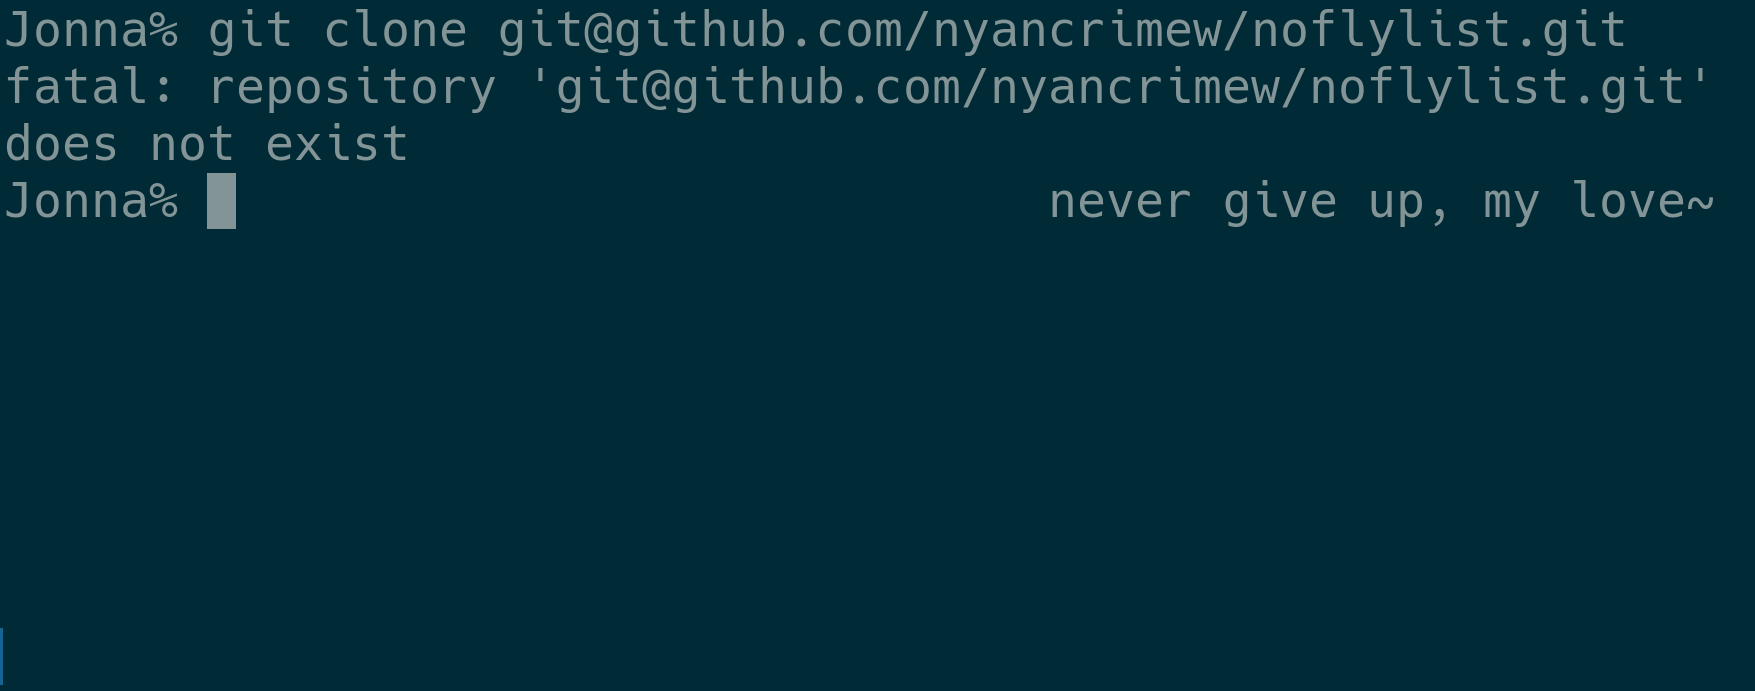
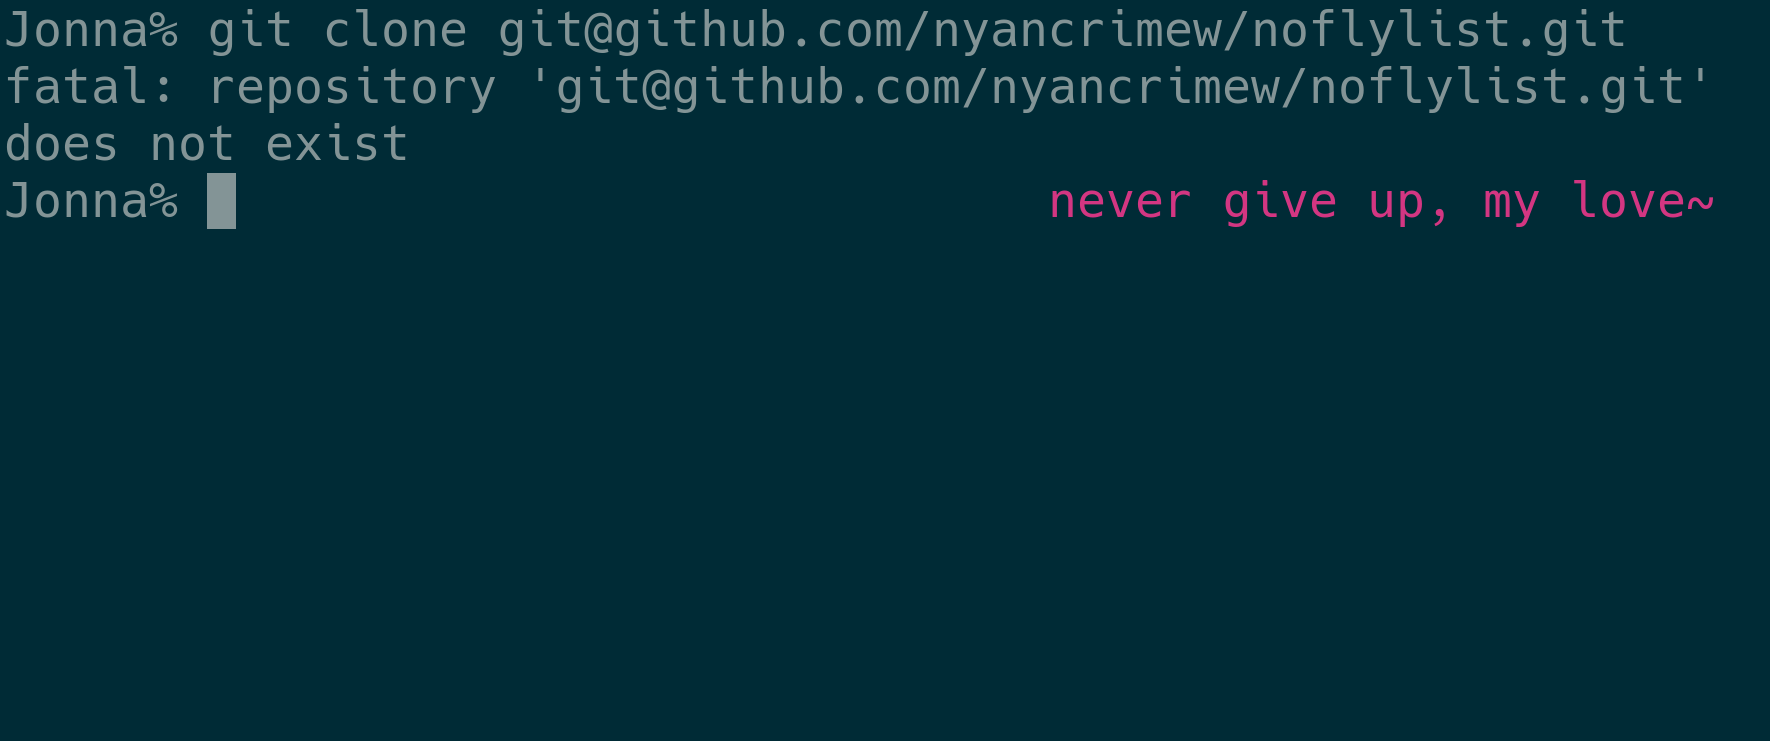
mommy supports prefixes now~ 💙
fixes #35~

Changed region(s): [[0.0, 0.0, 0.9846, 0.1823], [0.5846, 0.2431, 0.9846, 0.3343], [0.0, 0.1823, 0.2462, 0.3343]]

diff --git a/README.md b/README.md
@@ -75,6 +75,7 @@ make sure you do not put spaces around the `=`~
 | `MOMMY_CAREGIVER`              | what mommy calls herself                                                                                                                                                                                                                                                                                                                                    | yes   | `mommy`       |
 | `MOMMY_PRONOUNS`               | mommy's pronouns for herself. should be three words separated by spaces, as in `they them their` (subject, object, possessive)                                                                                                                                                                                                                              | yes   | `she her her` |
 | `MOMMY_SWEETIE`                | what mommy calls you                                                                                                                                                                                                                                                                                                                                        | yes   | `girl`        |
+| `MOMMY_PREFIX`                 | what mommy puts at the start of each sentence                                                                                                                                                                                                                                                                                                               | yes   | &lt;empty>    |
 | `MOMMY_SUFFIX`                 | what mommy puts at the end of each sentence                                                                                                                                                                                                                                                                                                                 | yes   | `~`           |
 | `MOMMY_CAPITALIZE`             | `0` to start sentences in lowercase, `1` for uppercase, anything else to change nothing                                                                                                                                                                                                                                                                     | no    | `0`           |
 | `MOMMY_COLOR`                  | color of mommy's text. you can use any [xterm color code](https://upload.wikimedia.org/wikipedia/commons/1/15/Xterm_256color_chart.svg), or write `lolcat` to use [lolcat](https://github.com/busyloop/lolcat) (install separately). specify multiple colors separated by `/` to randomly select one. set to empty string for your terminal's default color | yes   | `005`         |
@@ -196,7 +197,16 @@ to put mommy's output on the right side, add the following to `~/.zshrc`:
 set -o PROMPT_SUBST
 RPS1='$(mommy -1 -s $?)'
 ```
-unfortunately, the `RPS1` solution [does not work well with colours](https://github.com/FWDekker/mommy/issues/35)~
+unfortunately, the `RPS1` solution does not work well with `MOMMY_COLOR`.
+instead, you'll have to use a special zsh syntax for
+[xterm color codes](https://upload.wikimedia.org/wikipedia/commons/1/15/Xterm_256color_chart.svg) by adding the
+following to your config:
+```shell
+MOMMY_COLOR=""
+MOMMY_PREFIX="%F{005}/%F{006}"
+MOMMY_SUFFIX="~%f"
+```
+this code randomly changes the output between magenta and cyan~
 
 <img width="450px" src=".github/img/sample2.png" alt="mommy integrated with the zsh shell" />
 

diff --git a/.github/img/samples.md b/.github/img/samples.md
@@ -7,7 +7,7 @@
    ```
 2. Use the following settings in `~/.config/mommy/config.sh`:
    ```shell
-   MOMMY_COMPLIMENTS_ENABLED=0;MOMMY_ENCOURAGEMENTS="it's okay to make mistakes";MOMMY_COLOR="lolcat"
+   MOMMY_COMPLIMENTS_ENABLED="0";MOMMY_ENCOURAGEMENTS="it's okay to make mistakes";MOMMY_COLOR="lolcat"
    ```
 3. Open Konsole, set font size to 32, set window size to 60x12, and hide window borders.
 4. Run
@@ -26,7 +26,7 @@
    ```
 2. Use the following settings in `~/.config/mommy/config.sh`:
    ```shell
-   MOMMY_COMPLIMENTS_ENABLED=0;MOMMY_ENCOURAGEMENTS="never give up, my love";MOMMY_COLOR=""
+   MOMMY_COMPLIMENTS_ENABLED="0";MOMMY_COLOR="";MOMMY_PREFIX="%F{005}";MOMMY_SUFFIX="~%f";MOMMY_ENCOURAGEMENTS="never give up, my love"
    ```
 3. Open Konsole, set font size to 32, set window size to 60x12, and hide window borders.
 4. Run

diff --git a/CHANGELOG.md b/CHANGELOG.md
@@ -1,7 +1,8 @@
 # Changelog
 ## [Unreleased]
 * mommy can output to stdout without redirection by giving her the `-1` option~
-* mommy now ignores exit code `130` by default, but you can change this by setting `MOMMY_IGNORED_STATUSES`~
+* mommy ignores exit code `130` by default, but you can change this by setting `MOMMY_IGNORED_STATUSES`~
+* mommy supports prefixes for her messages, and explains how to use them to get colors in zsh~
 * mommy improved her readme a bit~
 
 
